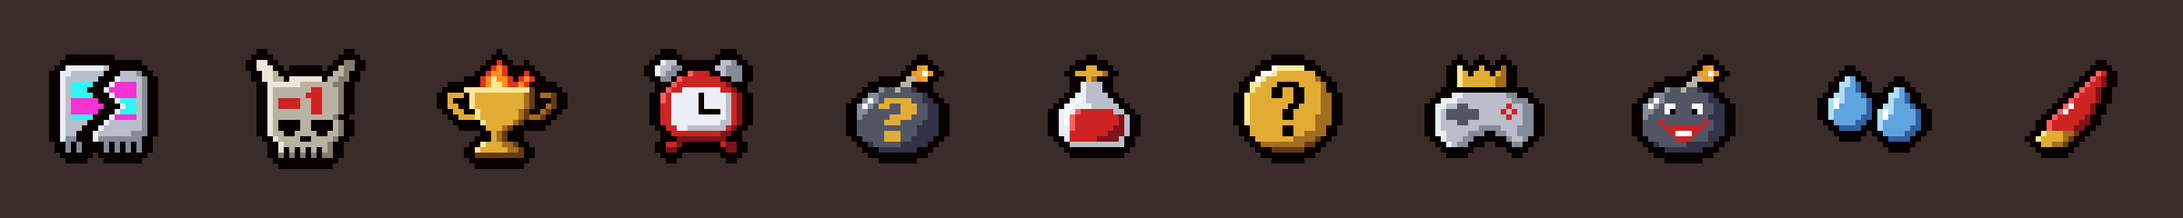
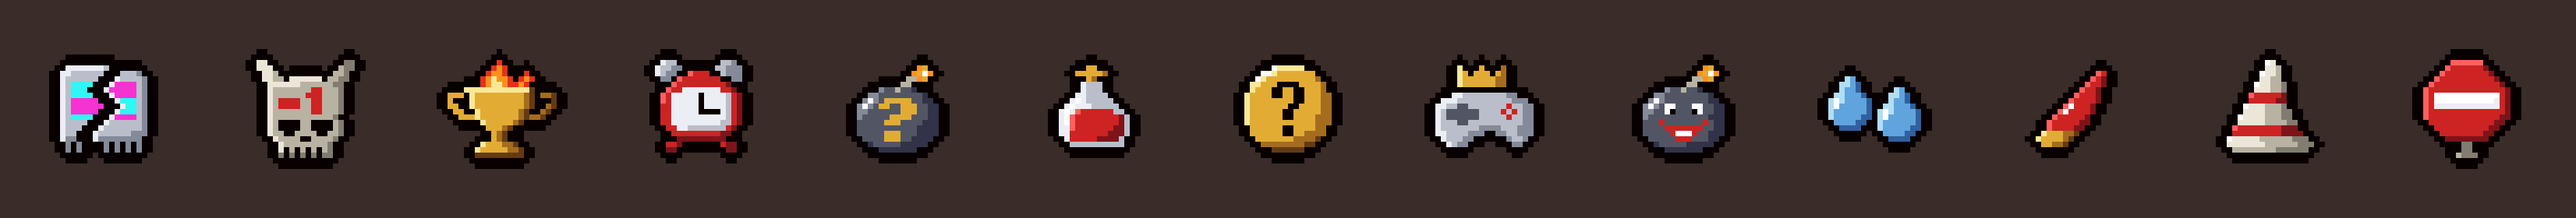
feat: oggetti inutili Sono un Idiota e Fermi Tutti
Closes #29

Changed region(s): [[0.0, 0.2188, 1.0, 0.7812]]

diff --git a/tools/sprites.py b/tools/sprites.py
@@ -23,6 +23,8 @@ OUT = {
     "la_trollata": "resources/gfx/items/collectibles/la_trollata.png",
     "fai_cosi": "resources/gfx/items/collectibles/fai_cosi.png",
     "mannaggia_a_lui": "resources/gfx/items/trinkets/mannaggia_a_lui.png",
+    "sono_un_idiota": "resources/gfx/items/collectibles/sono_un_idiota.png",
+    "fermi_tutti": "resources/gfx/items/collectibles/fermi_tutti.png",
 }
 PALETTE = {
     "K": (8, 0, 0),        # Contorno Isaac: colore del bordo in 443 collezionabili vanilla su 548
@@ -262,6 +264,45 @@ SPRITES = {
         "  LYYYyyb       ",
         " LYYYYyb        ",
         "  YYyyb         ",
+    ],
+    "sono_un_idiota": [  # Cappello da asino di carta, con la fascia rossa
+        "       Wt       ",
+        "       tts      ",
+        "      Wtts      ",
+        "      ttss      ",
+        "     Wttssu     ",
+        "     tttssu     ",
+        "    lRRRRRr     ",
+        "    RRRRRrr     ",
+        "   Wtttsssu     ",
+        "   ttttsssuu    ",
+        "  Wttttsssuu    ",
+        "  tttttssssuu   ",
+        " lRRRRRRRRrrr   ",
+        " RRRRRRRRRrrrr  ",
+        "Wtttttssssssuuu ",
+        "tttttttssssssuuu",
+        " ssssssssuuuuuu ",
+    ],
+    "fermi_tutti": [  # Cartello di stop
+        "     llllll     ",
+        "    lRRRRRRr    ",
+        "   lRRRRRRRRr   ",
+        "  lRRRRRRRRRRr  ",
+        " lRRRRRRRRRRRRr ",
+        "lRRRRRRRRRRRRRRr",
+        "lRWWWWWWWWWWWWRr",
+        "lRWWWWWWWWWWWwRr",
+        "lRwwwwwwwwwwwwRr",
+        "lRRRRRRRRRRRRRRr",
+        "lRRRRRRRRRRRRRrr",
+        " RRRRRRRRRRRRrr ",
+        "  RRRRRRRRRRrr  ",
+        "   RRRRRRRRrr   ",
+        "    rrrrrrrr    ",
+        "       uu       ",
+        "       uu       ",
+        "      suuu      ",
     ],
 }
 

diff --git a/docs/trascrizioni/tormentoni.md b/docs/trascrizioni/tormentoni.md
@@ -10,9 +10,11 @@ Conteggi su 75 trascrizioni. Sono ricerche nel testo dei sottotitoli automatici,
 |---|---|---|---|---|
 | Trollato / la trollata | 233 | 65 | Oggetto La Trollata | `VtdB6XtNDbc`: …Bene, godo. E niente. Oh, come prima. Ma porco Giuda! M'ha trollato di nuovo, eh. Prendiamolo per il cuore. Ti devo dire, ti d… |
 | Tacchino | 224 | 61 | Scritta "Tacchino!" | `-AsV379j894`: …le run. Fatemi sapere nei commenti, mi raccomando, non fate tacchinardi perché altrimenti vi vengo a cercare a casa. Per tutti… |
+| Sono un idiota | 217 | 66 | Oggetto inutile Sono un Idiota (issue #29) | `rmSqsd3jVfk`: …to. Abbiamo capito. Abbiamo preso tre volte il danno perché sono un idiota. Ok. Attenzione. Ti prego, dammi la Angel, non mi fare sche… |
+| Fermi tutti | 144 | 59 | Oggetto inutile Fermi Tutti (issue #29) | `PUYwEuaZPaA`: …biamo la doppia. È vero, ma io ci devo entrare nelle curst. Fermi tutti. [musica] Io ci devo entrare nelle curst. Abbiamo le curs m… |
 | Fai così, fai così | 123 | 43 | Oggetto Fai Così, Fai Così | `9r8pHkX8-EQ`: …rdissimo. È tardissimo. Ok, non so cosa volevo fare là, eh. Fai così, fai così, fai così. Questo lo prendo. Aspetta, prendo tutto. Ciao. P… |
 | Mannaggia a lui | 98 | 46 | Trinket Mannaggia a Lui | `IytPOo7mU3A`: …s, però più di così non riesco ad andare perché sono lento. Mannagia a lui. Il raggy pazzo. No, l'ho colpito. Sì, ma no. What the fuck… |
-| Non muore | 93 | 42 | Scritta "Non muore!" | `mpRVZjaYw50`: …erio? Però adesso li lasciamo. Non penso avremo problemi di Non muore. Wow! Là dentro non ci possiamo entrare al momento perché s… |
+| Non muore | 93 | 42 | Scritta "Non muore!" | `PaBKSW5VdOY`: …tenzione. Ok. Quanto sta di HP? Madre mia, madre santa. Ok, non muore, eh. Devo giocare ultra concentrato qua. Ok, vai, vai, smar… |
 | Ciao a tutti, io sono Risacca | 74 | 74 | Scritta a inizio run | `-1Q8zR4NU9g`: …Ciao a tutti, io sono Risacca. Benvenuti sul mio canale, bentornati in questo nuovo episo… |
 | C'ho l'ansia | 74 | 32 | Scritta "C'ho l'ansia" | `JeM5q4cjwXs`: …e me ne vado. Oddio, le pillole le potevo prendere. Oddio, c'ho l'ansia. Madonna, ho l'ansia. Allora, mi confermi che non posso pre… |
 | Potrebbe stare qua | 74 | 32 | Oggetto Potrebbe Stare Qua | `q4r3qL9sWs0`: …agon, come cacchio si dice? Però però no, eh. Mega mushroom potrebbe stare qua la Ry. Eccola. Eccolo. Dogma c'è. C'è speed damage. Grand f… |
@@ -46,9 +48,7 @@ Conteggi su 75 trascrizioni. Sono ricerche nel testo dei sottotitoli automatici,
 
 | Frase | Volte | Video | Nota | Citazione |
 |---|---|---|---|---|
-| Sono un idiota | 217 | 66 | Scritta "Sono un idiota", non scelta nella issue #6 | `rmSqsd3jVfk`: …to. Abbiamo capito. Abbiamo preso tre volte il danno perché sono un idiota. Ok. Attenzione. Ti prego, dammi la Angel, non mi fare sche… |
 | Cortesemente | 165 | 65 | Scritta "Puoi morire, cortesemente?", non scelta nella issue #6 | `Am2P9XucHkg`: …. Assaie. No, ma mia, è partito una pallonata. Oh, schiatta cortesemente. Dai, tacchinibus. Ok, perché il doppio item. Ok, preso Lit… |
-| Fermi tutti | 144 | 59 | Scritta "Fermi tutti!", non scelta nella issue #6 | `oeccXtdu4SA`: …iso il personaggio. Oh, cazzo, che giochiamo oggi, ragazzi? Fermi tutti, fermi tutti, fermi tutti, fermi tutti, fermi tutti, fermi… |
 | Che culo | 68 | 34 | Trinket Che Culo, non scelto nella issue #6 | `XlY7Qx9Cang`: …nello shop e qualcosa di buono nella Curst. Ah, prima qua. Che culo, che culo, che culo, che culo. Abbiamo ristabilito il tiars… |
 | Spacchettare | 64 | 33 | Oggetto Spacchettiamo, non scelto nella issue #6 | `PLbe-5qwwwg`: …agazzi. Qua dobbiamo dobbiamo usare il tutto per tutto. Ok, spacchettiamo tutto. Non dobbiamo prendere danno, però perché sennò p… |
 | Uno è andato | 58 | 41 | Scritta "E uno è andato!", non scelta nella issue #6 | `7qxtdtPgT30`: …Non mi interessa, amico mio. Uno mi ha itato. Non mi ha ok. Uno è andato giù, l'altro forse pure. Ok, uno. Ok, il danno non è male,… |

diff --git a/docs/da-fare-su-windows.md b/docs/da-fare-su-windows.md
@@ -52,7 +52,8 @@ Apri la console con il tasto `\` (quello sopra Invio, oppure `ò`/`ù` sulla tas
 - [ ] `giveitem Mannaggia a Lui`, poi fatti colpire: il nemico più vicino subisce 10 volte il tuo danno e compare **"Mannaggia a lui!"**. Controlla il bilanciamento, soprattutto sui boss. Effetto e scritta confermati. Resta da decidere il bilanciamento: Monstro è morto solo con i contatti.
 - [x] Le icone degli altri cinque oggetti (Non Vi Rubo Altro Tempo, Potrebbe Stare Qua, Il Miracolo di San Gennaruzzo, Che Fai, Te Ne Privi?, La Mossa del Pro Player) si vedono e le loro descrizioni in External Item Descriptions sono giuste.
 - [x] Le icone di La Trollata, Fai Così, Fai Così e Mannaggia a Lui si vedono.
-- [ ] Le 11 icone hanno il contorno da 2px: guardale sul piedistallo e nell'HUD, e controlla che siano leggibili accanto agli oggetti vanilla. Fai attenzione al "-1" di -1 al Dead God e a Il Miracolo di San Gennaruzzo, che potrebbe sembrare una pozione.
+- [ ] `giveitem Sono un Idiota` e `giveitem Fermi Tutti`: compaiono *Sono un idiota!* e *Fermi tutti!*, e le statistiche non cambiano.
+- [ ] Le 13 icone hanno il contorno da 2px: guardale sul piedistallo e nell'HUD, e controlla che siano leggibili accanto agli oggetti vanilla. Fai attenzione al "-1" di -1 al Dead God e a Il Miracolo di San Gennaruzzo, che potrebbe sembrare una pozione.
 
 Facoltativo, se ci arrivi: The Beast deve mostrare **"IL BEASTY BOY"**, Mega Satan **"MEGA STANLEY KUBRICK"**, Peep **"PIPPOLINS"** (The Bloat invece niente). Battere un boss finale (Satan, The Lamb, Mother…) deve mostrare **"Un bacione grande / dal vostro Risacca"**.
 

diff --git a/README.md b/README.md
@@ -32,6 +32,7 @@ Mod per **The Binding of Isaac: Repentance** dedicata a [Risacca](https://www.yo
 - **Potrebbe Stare Qua** (passivo): a ogni nuovo piano mostra le stanze segrete sulla mappa e dà 2 bombe. Scritta alla prima visita di una stanza segreta: *Potrebbe stare qua!*.
 - **Il Miracolo di San Gennaruzzo** (passivo, nelle stanze dell'angelo): +25% di probabilità di una stanza dell'angelo a ogni nuovo piano e un cuore eterno alla prima visita di ognuna, con la scritta *Il miracolo di San Gennaruzzo!*.
 - **Che Fai, Te Ne Privi?** (trinket): 25% di probabilità di un pickup in più quando finisci una stanza, con la scritta *Che fai? Te ne privi?*.
+- **Sono un Idiota** e **Fermi Tutti** (passivi, qualità 0): non fanno niente. Quando li raccogli compaiono *Sono un idiota!* e *Fermi tutti!*.
 
 Con [External Item Descriptions](https://steamcommunity.com/sharedfiles/filedetails/?id=836319872) attiva, gli oggetti mostrano anche la loro descrizione in italiano. Il riquadro Item Info del menu di pausa li mostra comunque come "Unknown": è un limite dell'API del gioco.
 

diff --git a/CLAUDE.md b/CLAUDE.md
@@ -35,7 +35,7 @@ Non c'è un test runner. I test sono script con `assert`: per provarne uno basta
 - **`main.lua`.** Fa solo da collegamento con le callback del gioco, e ha tre sezioni:
   - **oggetti nuovi:** Ho Rotto il Gioco, -1 al Dead God, Win Streak;
   - **scritte a schermo:** ognuna fa `say(...)` → la coda → `HUD:ShowItemText` dentro `MC_POST_UPDATE`;
-  - **oggetti dei tormentoni:** Non Vi Rubo Altro Tempo, Potrebbe Stare Qua, Il Miracolo di San Gennaruzzo, Che Fai, Te Ne Privi?, La Mossa del Pro Player, La Trollata, Fai Così, Fai Così, Mannaggia a Lui. Stanno in fondo perché usano anche `say`.
+  - **oggetti dei tormentoni:** Non Vi Rubo Altro Tempo, Potrebbe Stare Qua, Il Miracolo di San Gennaruzzo, Che Fai, Te Ne Privi?, La Mossa del Pro Player, La Trollata, Fai Così, Fai Così, Mannaggia a Lui, e gli oggetti inutili Sono un Idiota e Fermi Tutti (solo la scritta al pickup). Stanno in fondo perché usano anche `say`.
 
   La stessa callback può essere registrata due volte, una per sezione, ed è voluto.
 - **Coda delle scritte.**
